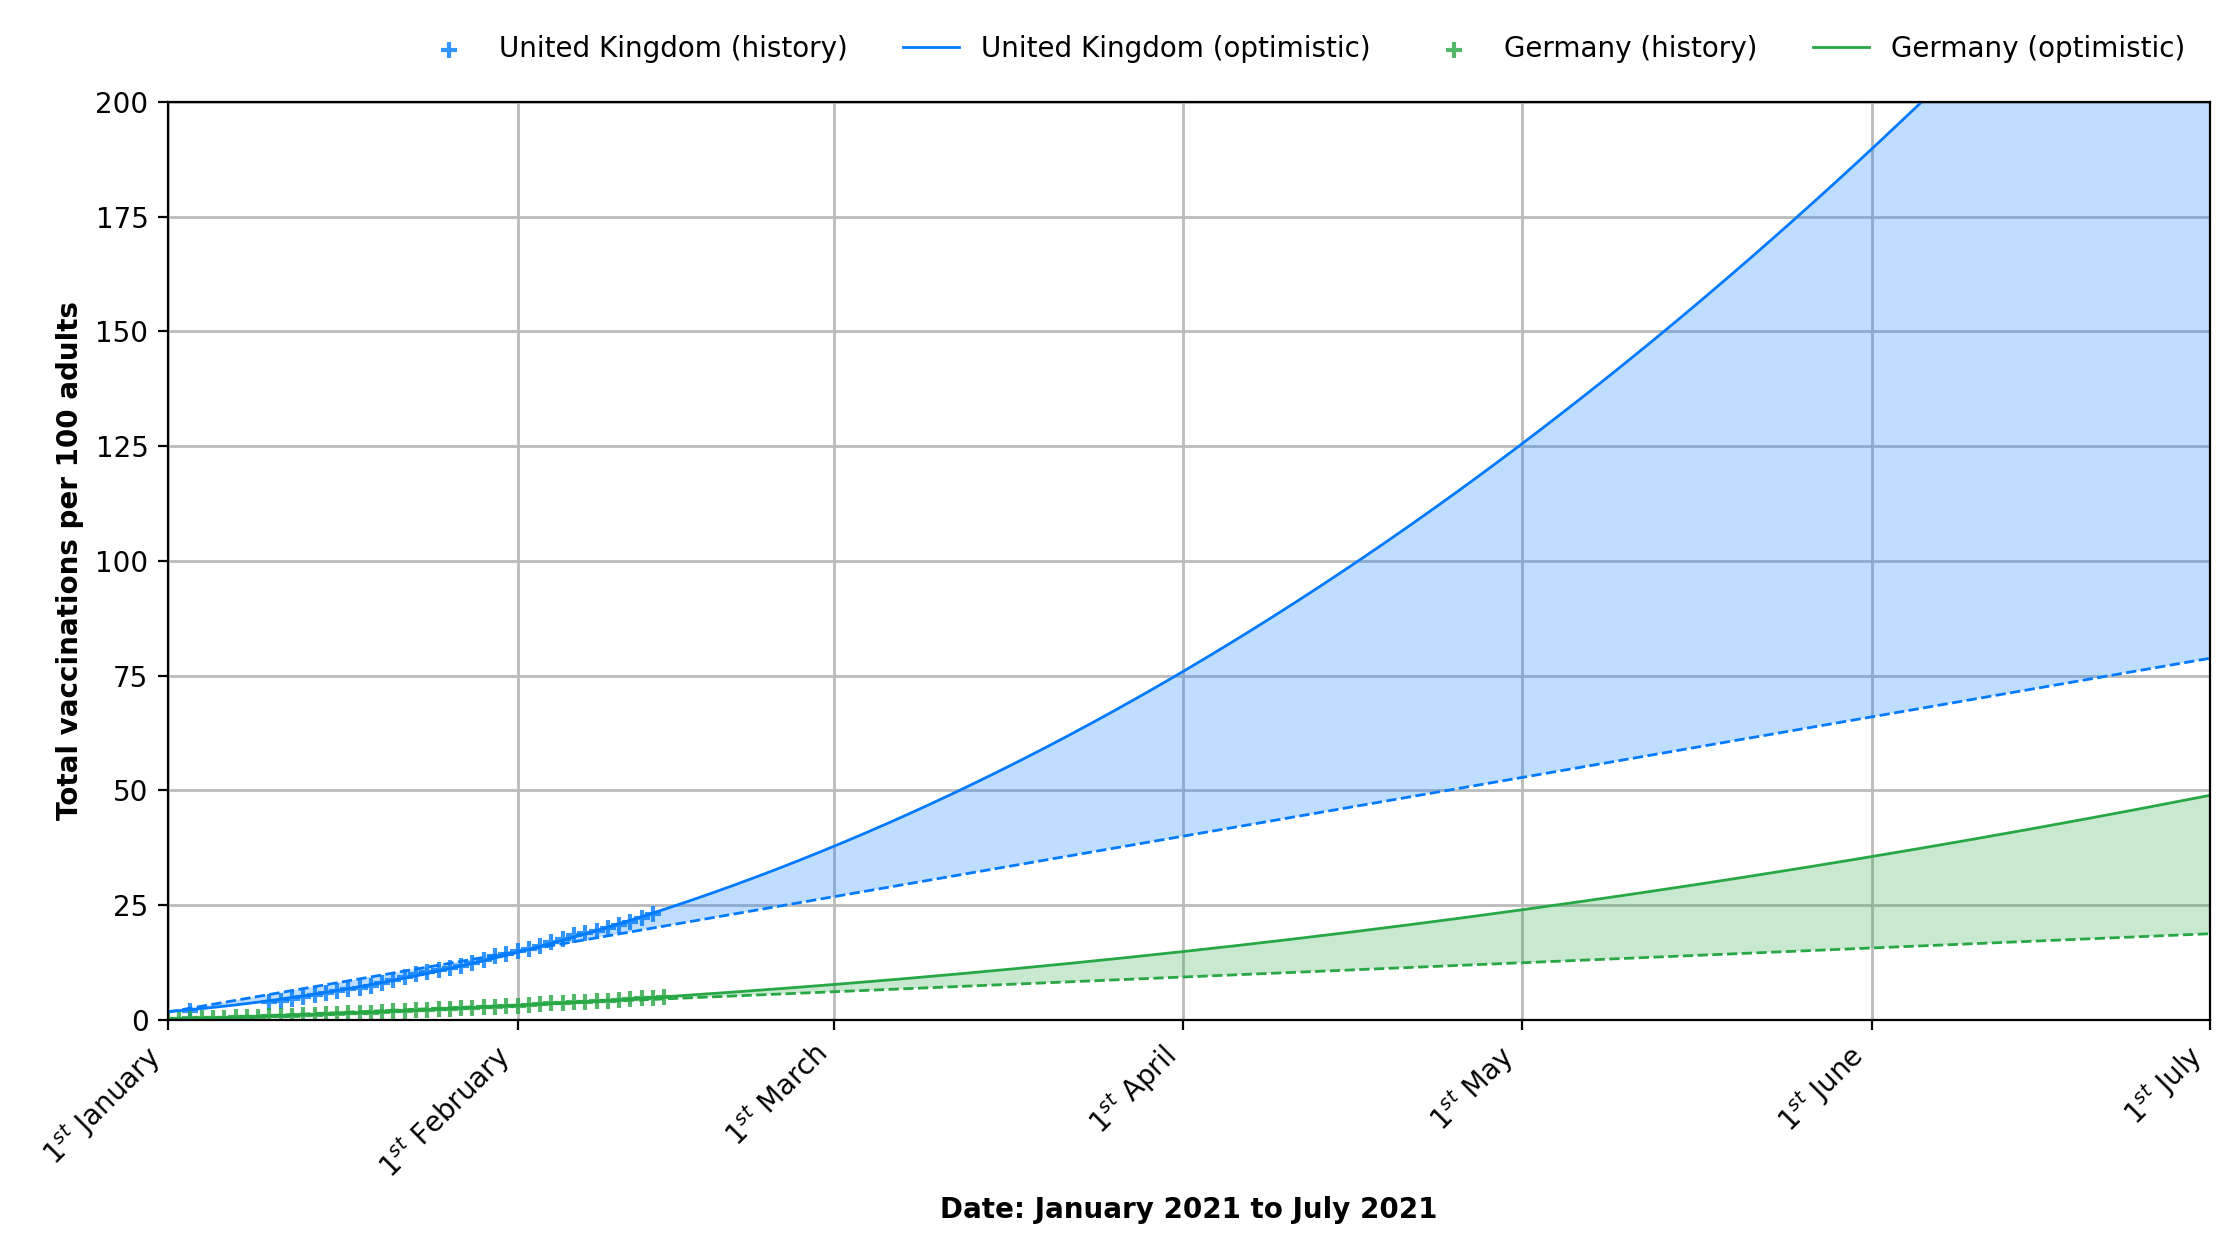
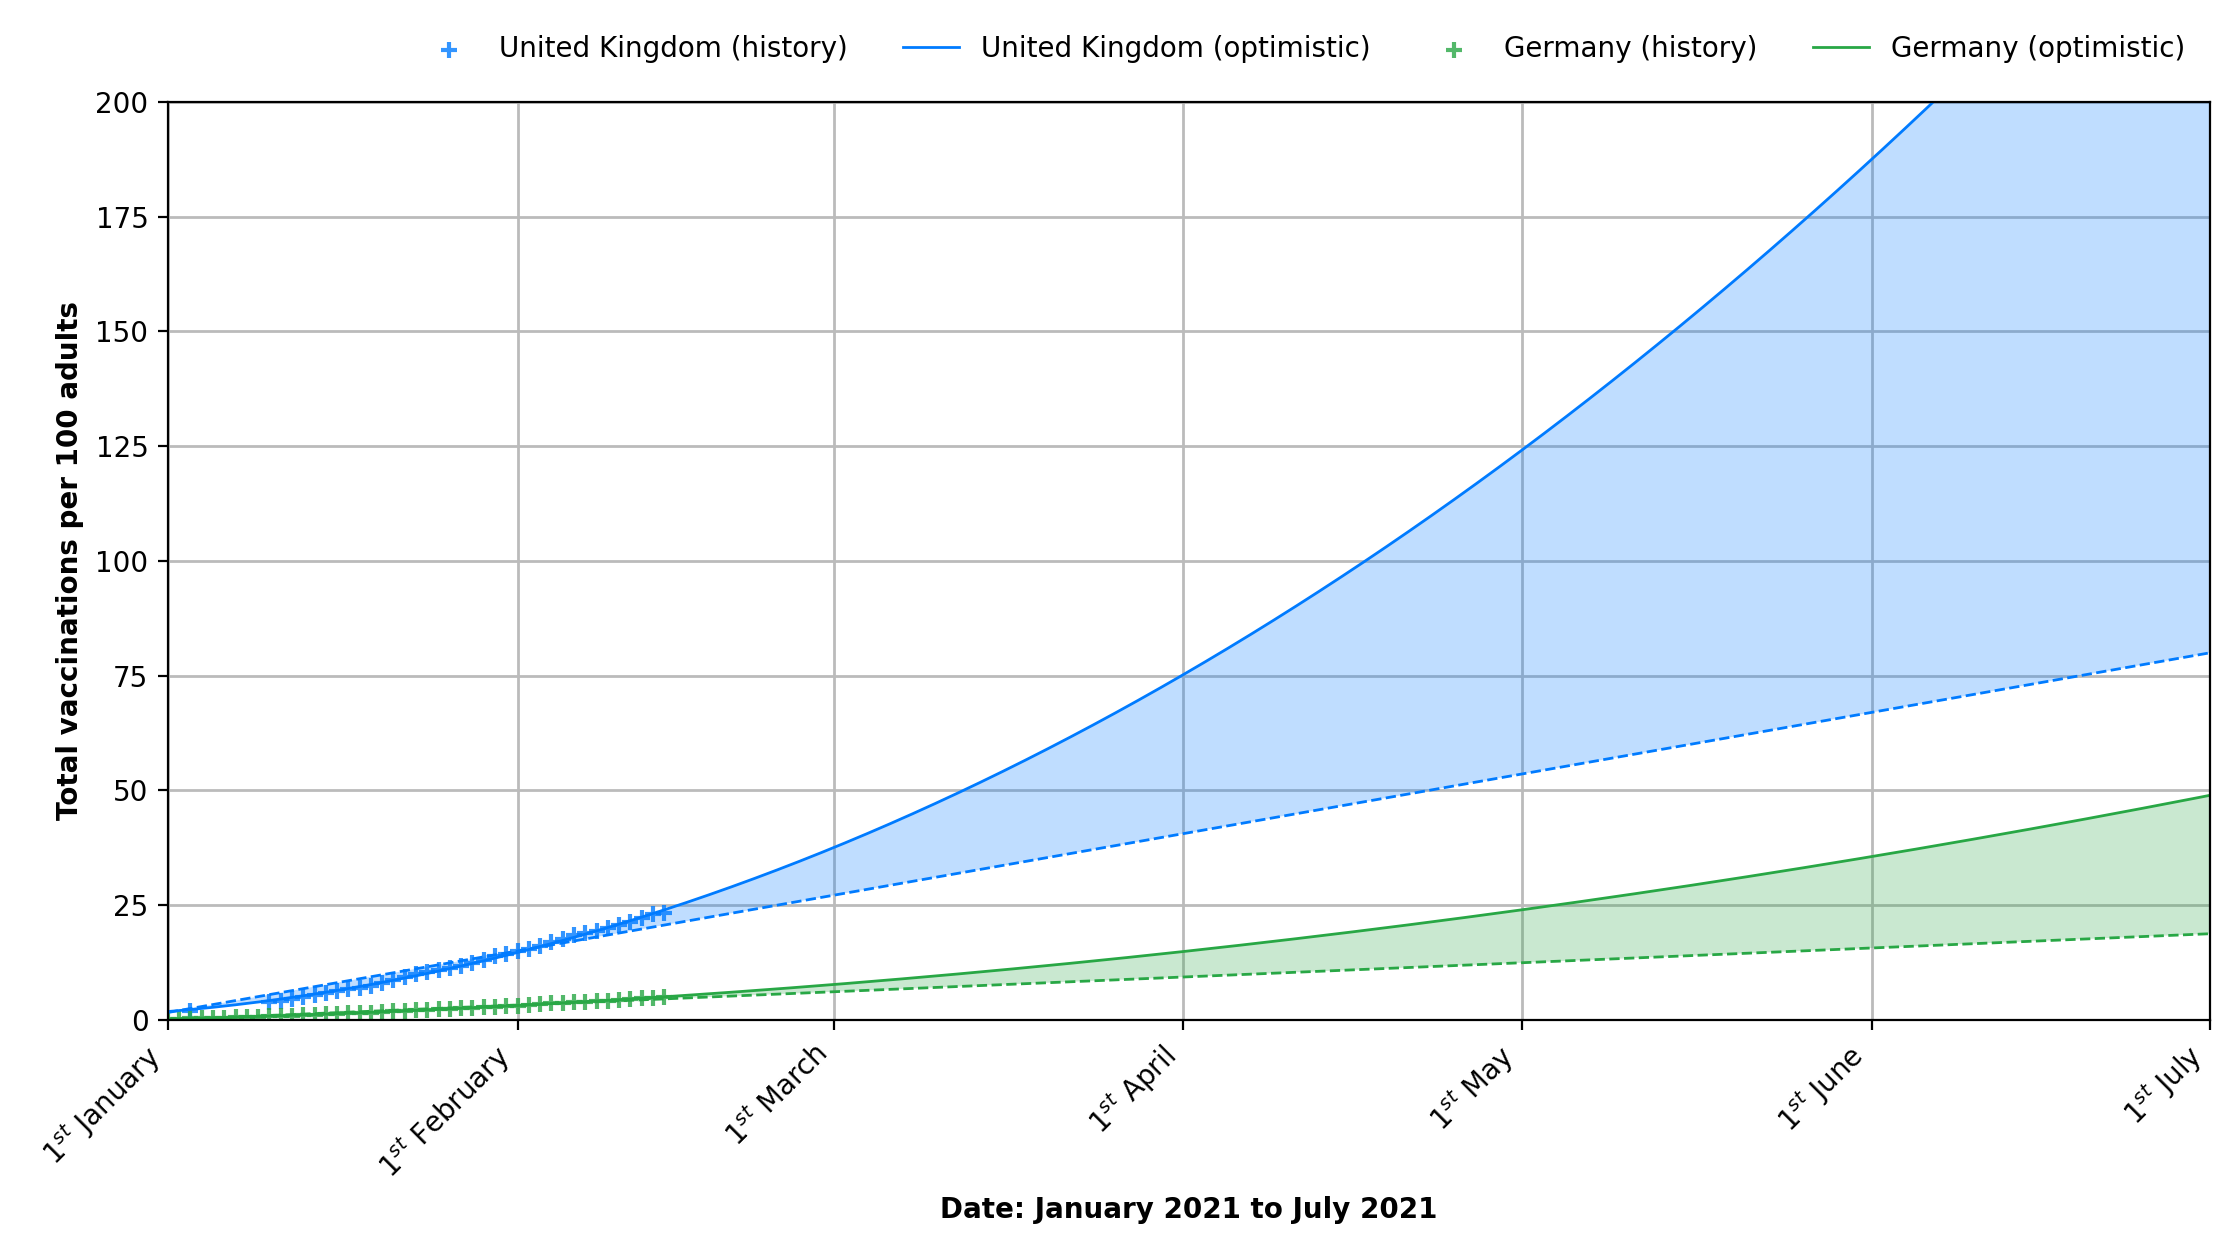
Deploying to gh-pages from @ lambdapioneer/vactrend@1ca45d8fab2f67f385b0860a8c860b276fac6df1 🚀

diff --git a/index.html b/index.html
@@ -38,11 +38,11 @@
                 <div class="card">
                     <div class="card-header">🇬🇧 United Kingdom</div>
                     <div class="card-body">
-                        <h3 class="font-weight-bold" style="color: #007bff">22.98</h3>
+                        <h3 class="font-weight-bold" style="color: #007bff">23.33</h3>
                         <p class="mt-n2">Vaccinations per 100 adults</p>
-                        <h3 class=" font-weight-bold">17 April 2021</h3>
+                        <h3 class=" font-weight-bold">18 April 2021</h3>
                         <p class="mt-n2">Earliest day: 100 vacc. per 100 adults</p>
-                        <h3 class=" font-weight-bold">06 June 2021</h3>
+                        <h3 class=" font-weight-bold">07 June 2021</h3>
                         <p class="mt-n2">Earliest day: 200 vacc. per 100 adults</p>
                     </div>
                 </div>
